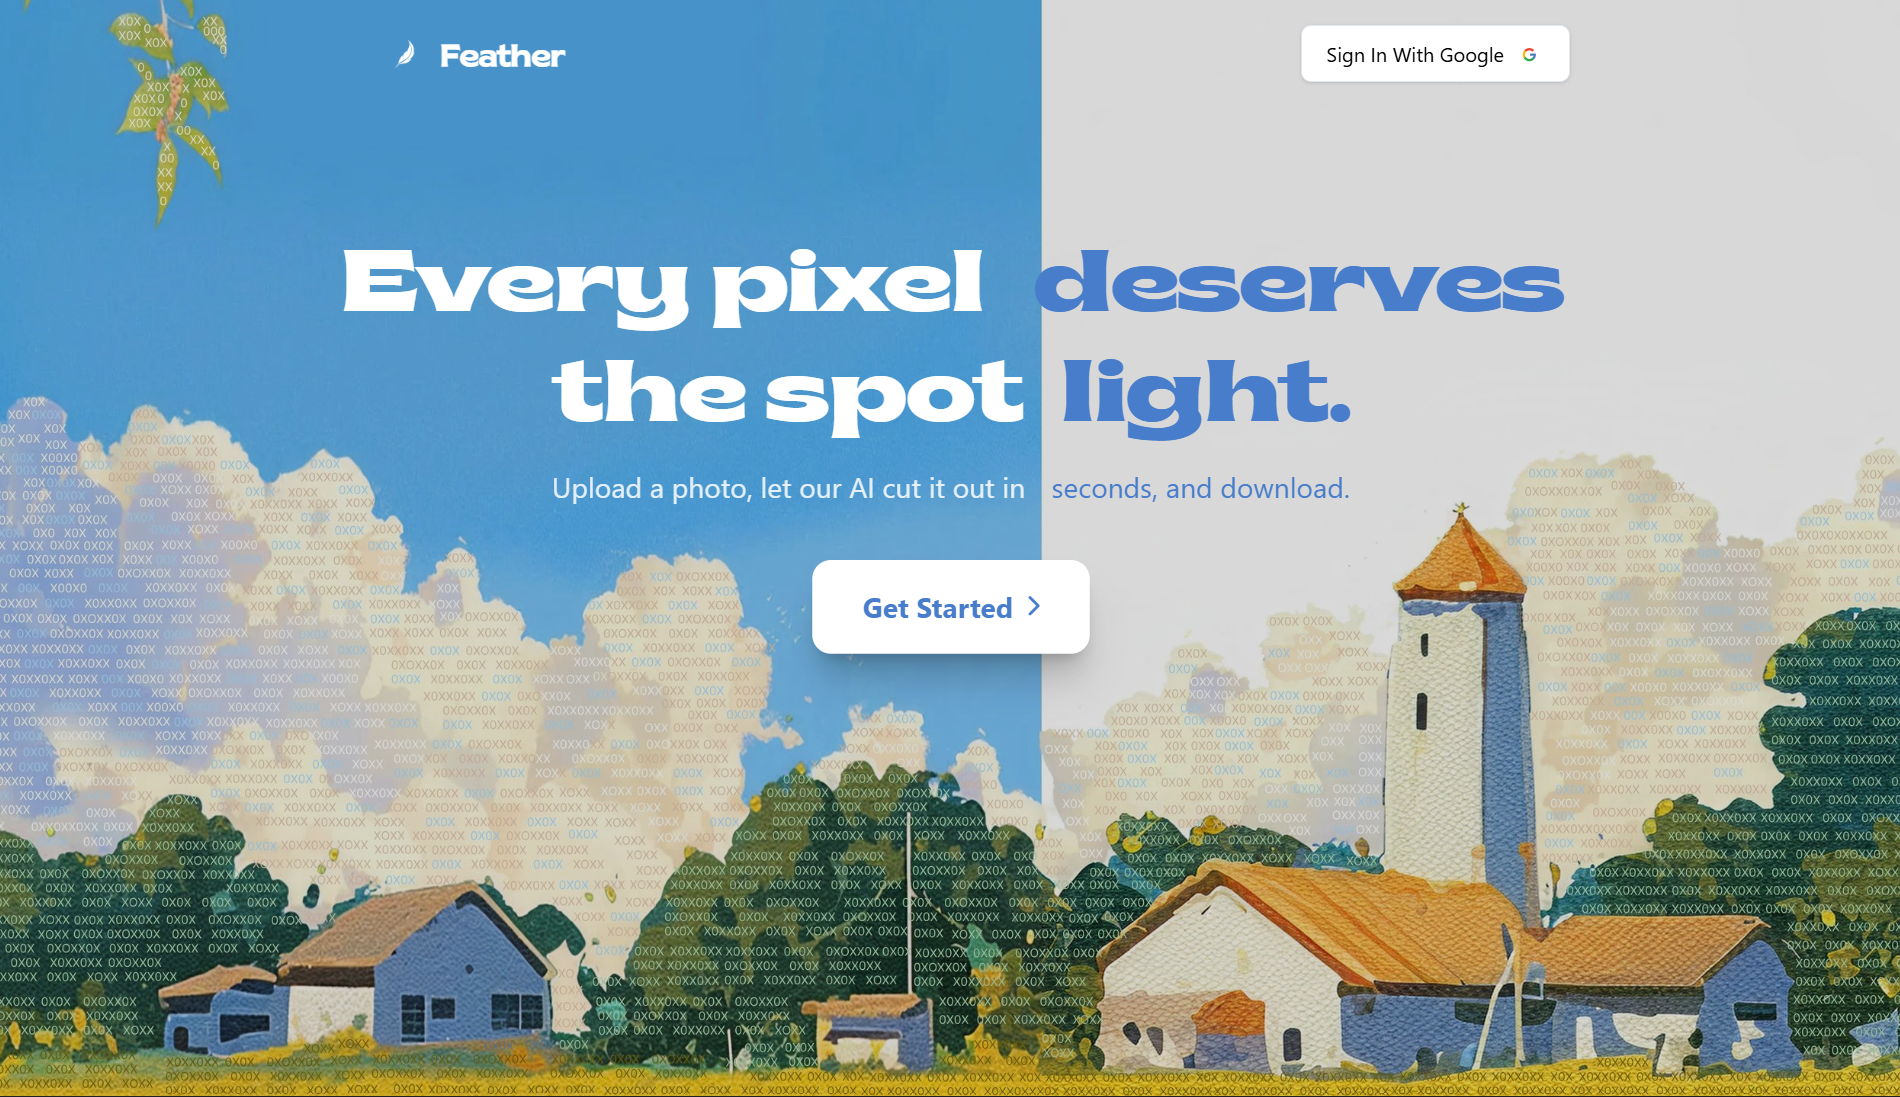
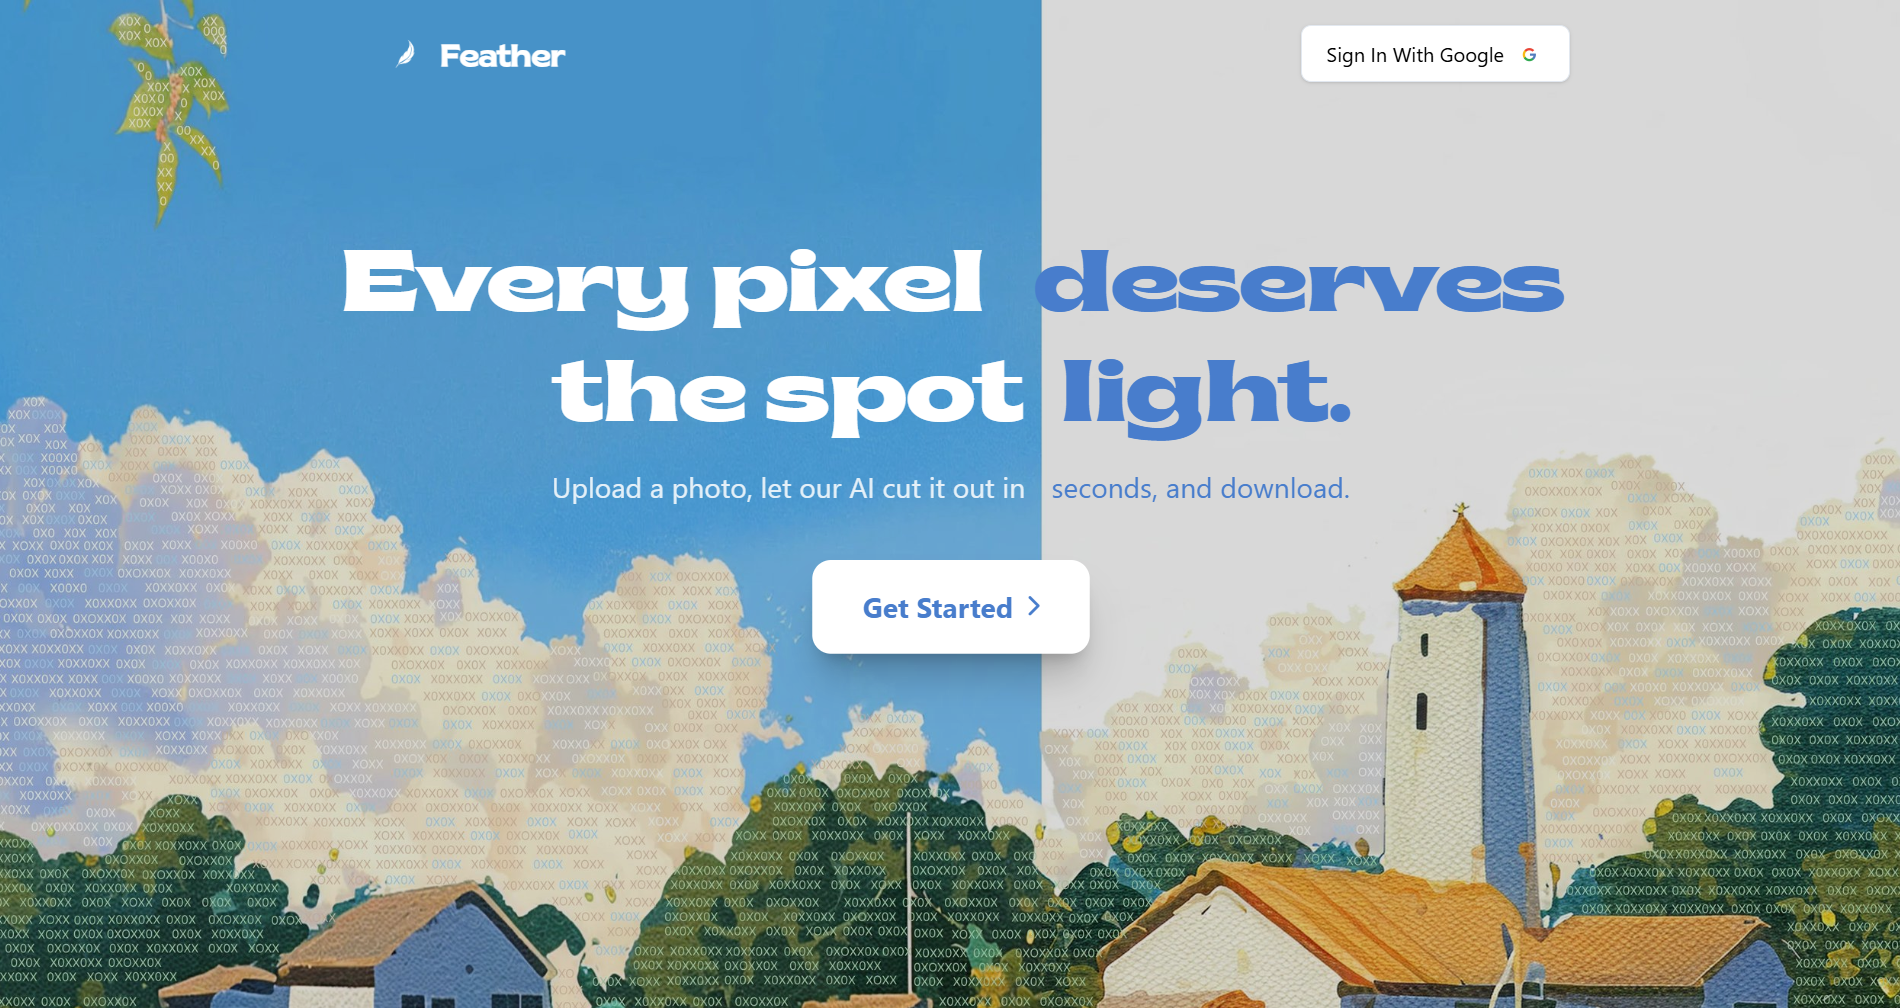
activity

diff --git a/client/components/GithubActivityCalendar.tsx b/client/components/GithubActivityCalendar.tsx
@@ -1,4 +1,4 @@
-import { useEffect, useMemo, useState } from "react";
+import { useEffect, useMemo, useRef, useState } from "react";
 
 interface ContributionDay {
   date: string;
@@ -87,6 +87,8 @@ export default function GithubActivityCalendar({
   const [status, setStatus] = useState<"loading" | "ready" | "error">(
     "loading",
   );
+  const gridWrapRef = useRef<HTMLDivElement>(null);
+  const [gridWidth, setGridWidth] = useState(0);
 
   useEffect(() => {
     let cancelled = false;
@@ -109,6 +111,20 @@ export default function GithubActivityCalendar({
       cancelled = true;
     };
   }, [username]);
+
+  useEffect(() => {
+    const el = gridWrapRef.current;
+    if (!el) return;
+
+    const observer = new ResizeObserver((entries) => {
+      const width = entries[0]?.contentRect.width;
+      if (width) setGridWidth(width);
+    });
+    observer.observe(el);
+    setGridWidth(el.getBoundingClientRect().width);
+
+    return () => observer.disconnect();
+  }, [status]);
 
   const weeks = useMemo(
     () => (data ? buildWeeks(data.contributions) : []),
@@ -146,8 +162,17 @@ export default function GithubActivityCalendar({
     );
   }
 
-  const cellSize = 11;
-  const cellGap = 3;
+  // Fill the available width: solve for a cell size where
+  // width = weeks*cellSize + (weeks-1)*gap, with gap = cellSize * GAP_RATIO
+  const GAP_RATIO = 0.28;
+  const numWeeks = Math.max(weeks.length, 1);
+  const rawCellSize =
+    gridWidth > 0
+      ? gridWidth / (numWeeks + (numWeeks - 1) * GAP_RATIO)
+      : 12;
+  const cellSize = Math.min(Math.max(rawCellSize, 9), 22);
+  const cellGap = cellSize * GAP_RATIO;
+  const labelColWidth = 32;
 
   return (
     <div>
@@ -158,11 +183,15 @@ export default function GithubActivityCalendar({
         </p>
       )}
 
-      <div className="inline-flex min-w-full gap-3">
+      <div className="flex w-full min-w-[640px] gap-3">
         {/* Day-of-week labels */}
         <div
-          className="flex flex-col text-[11px] text-white/40"
-          style={{ gap: cellGap, marginTop: cellSize + cellGap + 4 }}
+          className="flex flex-shrink-0 flex-col text-[11px] text-white/40"
+          style={{
+            width: labelColWidth,
+            gap: cellGap,
+            marginTop: cellSize + cellGap + 4,
+          }}
         >
           {DAY_LABELS.map((label, i) => (
             <div
@@ -175,7 +204,7 @@ export default function GithubActivityCalendar({
           ))}
         </div>
 
-        <div>
+        <div className="min-w-0 flex-1" ref={gridWrapRef}>
           {/* Month labels */}
           <div
             className="relative mb-1 text-[11px] text-white/40"

diff --git a/client/components/ProjectsSection.tsx b/client/components/ProjectsSection.tsx
@@ -13,7 +13,7 @@ const projects: Project[] = [
   {
     name: "Feather",
     description:
-      "An AI-powered background remover built with React and Express. Upload a photo, cut the background out in seconds with ClipDrop's AI, swap in a new one, and export — with Google sign-in, a history gallery, and a one-time Pro upgrade via Paddle.",
+      "An AI background remover — upload a photo, cut it out in seconds, swap the background, and export.",
     cover: "/projects/feather-cover.png",
     github: "https://github.com/parinith-web/feather",
     live: "https://feather-bg.vercel.app/",
@@ -21,7 +21,7 @@ const projects: Project[] = [
   {
     name: "Nest",
     description:
-      'A browser extension that organizes Reddit saved posts into custom collections, enabling efficient categorization, faster retrieval, and a clutter-free knowledge management experience.',
+      "A browser extension that organizes Reddit saved posts into custom collections for faster retrieval.",
     cover: "/projects/nest-cover.png",
     github: "https://github.com/parinith-web/nest",
     live: "https://nest-organizer.vercel.app/",